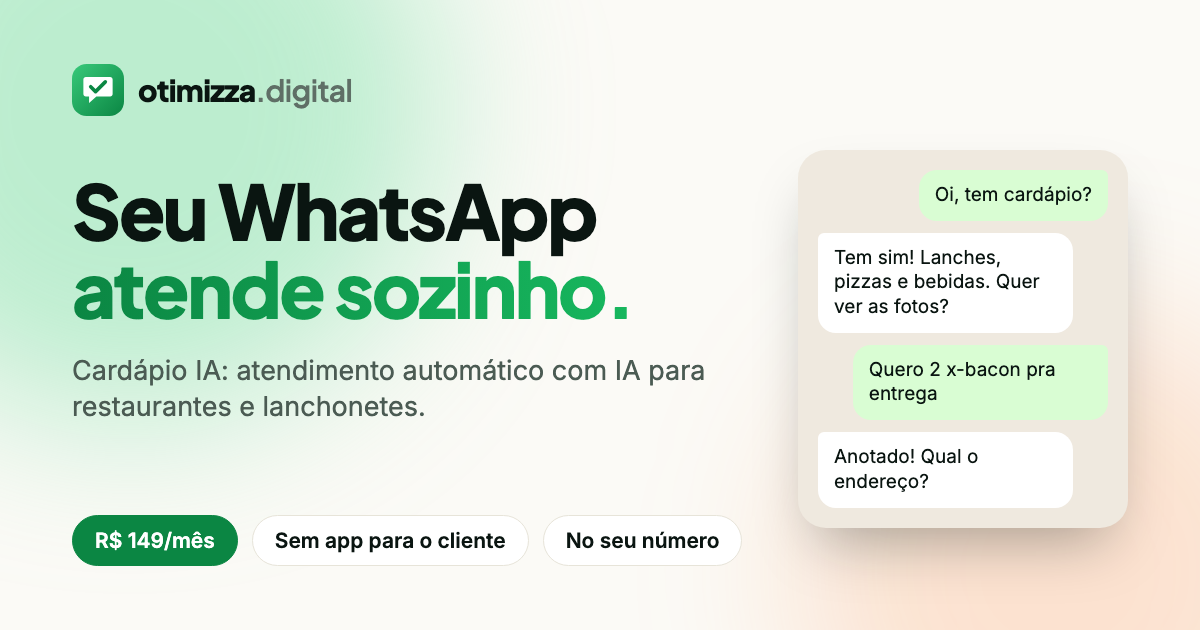
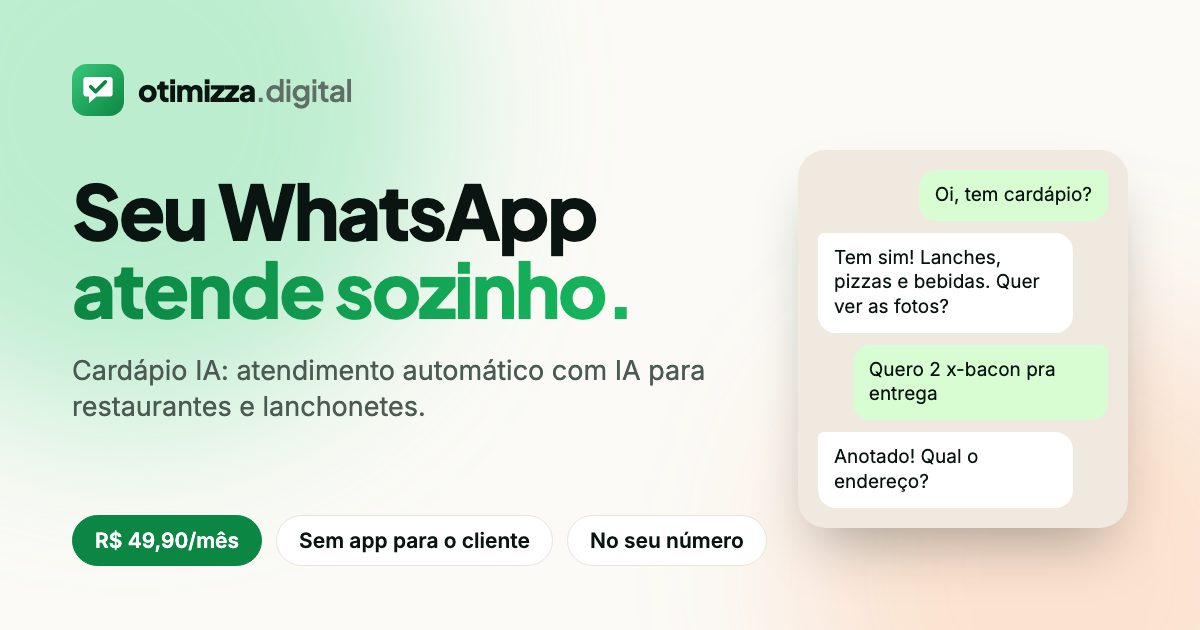
Preço do plano: R$ 49,90 por mês
Atualiza o preço em todo o site: plano, contador da home, calculadora,
barra do celular, páginas de segmento, FAQ, metadados, JSON-LD
(Offer 49.90), llms.txt e imagem de compartilhamento. O contador
animado passa a aceitar casas decimais.

Changed region(s): [[0.0925, 0.8143, 0.6167, 0.9048]]

diff --git a/index.html b/index.html
@@ -4,7 +4,7 @@
     <meta charset="UTF-8" />
     <meta name="viewport" content="width=device-width, initial-scale=1.0" />
     <title>Atendimento automático no WhatsApp para restaurantes | Cardápio IA</title>
-    <meta name="description" content="Atendente de WhatsApp com inteligência artificial para restaurantes, lanchonetes e pizzarias: mostra o cardápio, anota pedidos e confirma entrega. R$ 149/mês." />
+    <meta name="description" content="Atendente de WhatsApp com inteligência artificial para restaurantes, lanchonetes e pizzarias: mostra o cardápio, anota pedidos e confirma entrega. R$ 49,90/mês." />
     <meta name="robots" content="index,follow,max-image-preview:large,max-snippet:-1,max-video-preview:-1" />
     <link rel="canonical" href="https://otimizza.digital/" />
     <link rel="alternate" hreflang="pt-BR" href="https://otimizza.digital/" />
@@ -25,7 +25,7 @@
     <meta property="og:locale" content="pt_BR" />
     <meta property="og:site_name" content="Otimizza Digital" />
     <meta property="og:title" content="Seu WhatsApp atende sozinho. Até na hora do rush." />
-    <meta property="og:description" content="Cardápio IA: atendente de WhatsApp com inteligência artificial para restaurantes e lanchonetes. Anota pedidos, confirma entrega e pagamento e avisa a cozinha. R$ 149/mês." />
+    <meta property="og:description" content="Cardápio IA: atendente de WhatsApp com inteligência artificial para restaurantes e lanchonetes. Anota pedidos, confirma entrega e pagamento e avisa a cozinha. R$ 49,90/mês." />
     <meta property="og:url" content="https://otimizza.digital/" />
     <meta property="og:image" content="https://otimizza.digital/social-cover.png" />
     <meta property="og:image:type" content="image/png" />
@@ -34,10 +34,10 @@
     <meta property="og:image:alt" content="Cardápio IA, da Otimizza Digital: seu WhatsApp atende sozinho." />
     <meta name="twitter:card" content="summary_large_image" />
     <meta name="twitter:title" content="Seu WhatsApp atende sozinho. Até na hora do rush." />
-    <meta name="twitter:description" content="Atendente de WhatsApp com IA para restaurantes e lanchonetes. R$ 149/mês, sem app para o cliente." />
+    <meta name="twitter:description" content="Atendente de WhatsApp com IA para restaurantes e lanchonetes. R$ 49,90/mês, sem app para o cliente." />
     <meta name="twitter:image" content="https://otimizza.digital/social-cover.png" />
 
-    <script type="application/ld+json">{"@context": "https://schema.org", "@graph": [{"@type": "Organization", "@id": "https://otimizza.digital/#organization", "name": "Otimizza Digital", "url": "https://otimizza.digital/", "logo": {"@type": "ImageObject", "url": "https://otimizza.digital/icon-512.png", "width": 512, "height": 512}, "email": "tony.ananias@gmail.com", "telephone": "+5518981868701", "address": {"@type": "PostalAddress", "addressLocality": "Presidente Prudente", "addressRegion": "SP", "addressCountry": "BR"}, "areaServed": [{"@type": "City", "name": "Presidente Prudente"}, {"@type": "Country", "name": "Brasil"}], "founder": {"@type": "Person", "name": "Tony Ananias", "url": "https://tonyananias.com.br/sobre/"}, "contactPoint": {"@type": "ContactPoint", "contactType": "sales", "telephone": "+5518981868701", "availableLanguage": "Portuguese", "url": "https://wa.me/5518981868701"}, "sameAs": ["https://www.instagram.com/otimizza_digital/"]}, {"@type": "WebSite", "@id": "https://otimizza.digital/#website", "url": "https://otimizza.digital/", "name": "Otimizza Digital", "inLanguage": "pt-BR", "publisher": {"@id": "https://otimizza.digital/#organization"}}, {"@type": "WebPage", "@id": "https://otimizza.digital/#webpage", "url": "https://otimizza.digital/", "name": "Atendimento automático no WhatsApp para restaurantes | Cardápio IA", "inLanguage": "pt-BR", "isPartOf": {"@id": "https://otimizza.digital/#website"}, "about": {"@id": "https://otimizza.digital/#software"}, "primaryImageOfPage": {"@type": "ImageObject", "url": "https://otimizza.digital/social-cover.png"}, "dateModified": "2026-11-04"}, {"@type": "SoftwareApplication", "@id": "https://otimizza.digital/#software", "name": "Cardápio IA", "applicationCategory": "BusinessApplication", "applicationSubCategory": "Atendimento e pedidos pelo WhatsApp", "operatingSystem": "Web, WhatsApp", "url": "https://otimizza.digital/", "image": "https://otimizza.digital/social-cover.png", "description": "Atendente de WhatsApp com inteligência artificial para restaurantes, lanchonetes, pizzarias, marmitarias e açaiterias: mostra o cardápio com fotos, anota pedidos, confirma endereço e pagamento, entende áudio e avisa a cozinha.", "featureList": ["Atendimento 24h no número de WhatsApp do restaurante", "Cardápio com fotos enviado na conversa", "Anotação de pedidos com total e taxa de entrega", "Confirmação de endereço e forma de pagamento", "Entende mensagens de áudio", "Painel de pedidos em tempo real e modo cozinha", "Cardápio online por link", "Gestão de entregadores", "Integração com PDV via Open Delivery e webhook", "Resumo diário de vendas no WhatsApp"], "audience": {"@type": "BusinessAudience", "audienceType": "Restaurantes, lanchonetes, pizzarias, marmitarias e açaiterias"}, "offers": {"@type": "Offer", "price": "149.00", "priceCurrency": "BRL", "url": "https://otimizza.digital/#precos", "availability": "https://schema.org/InStock", "priceSpecification": {"@type": "UnitPriceSpecification", "price": "149.00", "priceCurrency": "BRL", "unitText": "mês", "referenceQuantity": {"@type": "QuantitativeValue", "value": 1, "unitCode": "MON"}}, "description": "Plano único por número de WhatsApp, pagamento mensal."}, "provider": {"@id": "https://otimizza.digital/#organization"}, "publisher": {"@id": "https://otimizza.digital/#organization"}}]}</script>
+    <script type="application/ld+json">{"@context": "https://schema.org", "@graph": [{"@type": "Organization", "@id": "https://otimizza.digital/#organization", "name": "Otimizza Digital", "url": "https://otimizza.digital/", "logo": {"@type": "ImageObject", "url": "https://otimizza.digital/icon-512.png", "width": 512, "height": 512}, "email": "tony.ananias@gmail.com", "telephone": "+5518981868701", "address": {"@type": "PostalAddress", "addressLocality": "Presidente Prudente", "addressRegion": "SP", "addressCountry": "BR"}, "areaServed": [{"@type": "City", "name": "Presidente Prudente"}, {"@type": "Country", "name": "Brasil"}], "founder": {"@type": "Person", "name": "Tony Ananias", "url": "https://tonyananias.com.br/sobre/"}, "contactPoint": {"@type": "ContactPoint", "contactType": "sales", "telephone": "+5518981868701", "availableLanguage": "Portuguese", "url": "https://wa.me/5518981868701"}, "sameAs": ["https://www.instagram.com/otimizza_digital/"]}, {"@type": "WebSite", "@id": "https://otimizza.digital/#website", "url": "https://otimizza.digital/", "name": "Otimizza Digital", "inLanguage": "pt-BR", "publisher": {"@id": "https://otimizza.digital/#organization"}}, {"@type": "WebPage", "@id": "https://otimizza.digital/#webpage", "url": "https://otimizza.digital/", "name": "Atendimento automático no WhatsApp para restaurantes | Cardápio IA", "inLanguage": "pt-BR", "isPartOf": {"@id": "https://otimizza.digital/#website"}, "about": {"@id": "https://otimizza.digital/#software"}, "primaryImageOfPage": {"@type": "ImageObject", "url": "https://otimizza.digital/social-cover.png"}, "dateModified": "2026-11-04"}, {"@type": "SoftwareApplication", "@id": "https://otimizza.digital/#software", "name": "Cardápio IA", "applicationCategory": "BusinessApplication", "applicationSubCategory": "Atendimento e pedidos pelo WhatsApp", "operatingSystem": "Web, WhatsApp", "url": "https://otimizza.digital/", "image": "https://otimizza.digital/social-cover.png", "description": "Atendente de WhatsApp com inteligência artificial para restaurantes, lanchonetes, pizzarias, marmitarias e açaiterias: mostra o cardápio com fotos, anota pedidos, confirma endereço e pagamento, entende áudio e avisa a cozinha.", "featureList": ["Atendimento 24h no número de WhatsApp do restaurante", "Cardápio com fotos enviado na conversa", "Anotação de pedidos com total e taxa de entrega", "Confirmação de endereço e forma de pagamento", "Entende mensagens de áudio", "Painel de pedidos em tempo real e modo cozinha", "Cardápio online por link", "Gestão de entregadores", "Integração com PDV via Open Delivery e webhook", "Resumo diário de vendas no WhatsApp"], "audience": {"@type": "BusinessAudience", "audienceType": "Restaurantes, lanchonetes, pizzarias, marmitarias e açaiterias"}, "offers": {"@type": "Offer", "price": "49.90", "priceCurrency": "BRL", "url": "https://otimizza.digital/#precos", "availability": "https://schema.org/InStock", "priceSpecification": {"@type": "UnitPriceSpecification", "price": "49.90", "priceCurrency": "BRL", "unitText": "mês", "referenceQuantity": {"@type": "QuantitativeValue", "value": 1, "unitCode": "MON"}}, "description": "Plano único por número de WhatsApp, pagamento mensal."}, "provider": {"@id": "https://otimizza.digital/#organization"}, "publisher": {"@id": "https://otimizza.digital/#organization"}}]}</script>
   </head>
   <body>
     <div id="root"></div>

diff --git a/src/lib/segments.ts b/src/lib/segments.ts
@@ -46,7 +46,7 @@ export const SEGMENTS: Segment[] = [
     label: "Pizzaria",
     metaTitle: "Atendimento automático no WhatsApp para pizzaria | Cardápio IA",
     metaDescription:
-      "Robô de WhatsApp com IA para pizzaria: anota sabores, meio a meio, tamanho e borda, confirma endereço e pagamento e manda o pedido para a cozinha. R$ 149/mês.",
+      "Robô de WhatsApp com IA para pizzaria: anota sabores, meio a meio, tamanho e borda, confirma endereço e pagamento e manda o pedido para a cozinha. R$ 49,90/mês.",
     ogTitle: "Sua pizzaria atendendo todo mundo no WhatsApp, até na sexta à noite.",
     eyebrow: "Cardápio IA para pizzarias",
     h1: "Atendimento automático no WhatsApp para",
@@ -94,7 +94,7 @@ export const SEGMENTS: Segment[] = [
     label: "Hamburgueria",
     metaTitle: "Atendimento automático no WhatsApp para hamburgueria e lanchonete | Cardápio IA",
     metaDescription:
-      "Robô de WhatsApp com IA para hamburgueria e lanchonete: entende “xbacon”, anota adicionais e observações como “sem cebola” e manda o pedido para a chapa. R$ 149/mês.",
+      "Robô de WhatsApp com IA para hamburgueria e lanchonete: entende “xbacon”, anota adicionais e observações como “sem cebola” e manda o pedido para a chapa. R$ 49,90/mês.",
     ogTitle: "Sua hamburgueria atendendo no WhatsApp enquanto a chapa trabalha.",
     eyebrow: "Cardápio IA para hamburguerias e lanchonetes",
     h1: "Atendimento automático no WhatsApp para",
@@ -142,7 +142,7 @@ export const SEGMENTS: Segment[] = [
     label: "Marmitaria",
     metaTitle: "Atendimento automático no WhatsApp para marmitaria | Cardápio IA",
     metaDescription:
-      "Robô de WhatsApp com IA para marmitaria: informa o cardápio do dia, anota tamanho e prato, respeita o horário de corte e organiza as entregas do almoço. R$ 149/mês.",
+      "Robô de WhatsApp com IA para marmitaria: informa o cardápio do dia, anota tamanho e prato, respeita o horário de corte e organiza as entregas do almoço. R$ 49,90/mês.",
     ogTitle: "Sua marmitaria fechando os pedidos do almoço sem ficar presa no celular.",
     eyebrow: "Cardápio IA para marmitarias",
     h1: "Atendimento automático no WhatsApp para",
@@ -190,7 +190,7 @@ export const SEGMENTS: Segment[] = [
     label: "Açaiteria",
     metaTitle: "Atendimento automático no WhatsApp para açaiteria | Cardápio IA",
     metaDescription:
-      "Robô de WhatsApp com IA para açaiteria: anota tamanho, acompanhamentos e adicionais, avisa quando um item acabou e manda o pedido para o balcão. R$ 149/mês.",
+      "Robô de WhatsApp com IA para açaiteria: anota tamanho, acompanhamentos e adicionais, avisa quando um item acabou e manda o pedido para o balcão. R$ 49,90/mês.",
     ogTitle: "Sua açaiteria montando cada copo certo, direto do WhatsApp.",
     eyebrow: "Cardápio IA para açaiterias",
     h1: "Atendimento automático no WhatsApp para",

diff --git a/src/components/ui/Counter.tsx b/src/components/ui/Counter.tsx
@@ -6,11 +6,13 @@ type CounterProps = {
   prefix?: string;
   suffix?: string;
   duration?: number;
+  /** casas decimais (ex.: 2 para centavos) */
+  decimals?: number;
   className?: string;
 };
 
 /** Counts up from 0 when it scrolls into view. Respects reduced motion. */
-export function Counter({ to, prefix = "", suffix = "", duration = 1.6, className }: CounterProps) {
+export function Counter({ to, prefix = "", suffix = "", duration = 1.6, decimals = 0, className }: CounterProps) {
   const ref = useRef<HTMLSpanElement>(null);
   const inView = useInView(ref, { once: true, margin: "-40px" });
   const reduce = useReducedMotion();
@@ -19,7 +21,8 @@ export function Counter({ to, prefix = "", suffix = "", duration = 1.6, classNam
     const el = ref.current;
     if (!el) return;
     const write = (v: number) => {
-      el.textContent = `${prefix}${Math.round(v).toLocaleString("pt-BR")}${suffix}`;
+      const n = decimals ? v : Math.round(v);
+      el.textContent = `${prefix}${n.toLocaleString("pt-BR", { minimumFractionDigits: decimals, maximumFractionDigits: decimals })}${suffix}`;
     };
     if (reduce) {
       write(to);
@@ -28,11 +31,13 @@ export function Counter({ to, prefix = "", suffix = "", duration = 1.6, classNam
     if (!inView) return;
     const controls = animate(0, to, { duration, ease: [0.16, 1, 0.3, 1], onUpdate: write });
     return () => controls.stop();
-  }, [inView, reduce, to, prefix, suffix, duration]);
+  }, [inView, reduce, to, prefix, suffix, duration, decimals]);
 
   return (
     <span ref={ref} className={className}>
-      {prefix}0{suffix}
+      {prefix}
+      {(0).toLocaleString("pt-BR", { minimumFractionDigits: decimals, maximumFractionDigits: decimals })}
+      {suffix}
     </span>
   );
 }

diff --git a/src/components/sections/Pricing.tsx b/src/components/sections/Pricing.tsx
@@ -163,7 +163,7 @@ function Calculator_() {
               <strong className="text-white">
                 {ordersToPay} {ordersToPay === 1 ? "pedido" : "pedidos"} por mês
               </strong>{" "}
-              já pagam os {brl(BRAND.price)} do plano.
+              já pagam os {brl(BRAND.price, 2)} do plano.
             </p>
           </div>
         </div>
@@ -213,9 +213,9 @@ export function Pricing() {
                   <span className="text-2xl font-bold text-muted sm:text-3xl">R$</span>
                   <span className="relative inline-block text-7xl font-extrabold leading-[0.85] tracking-tighter tabular-nums sm:text-8xl">
                     {/* invisible real value reserves width (and is what screen readers read) */}
-                    <span className="invisible">{BRAND.price}</span>
+                    <span className="invisible">{BRAND.price.toLocaleString("pt-BR", { minimumFractionDigits: 2 })}</span>
                     <span aria-hidden="true" className="absolute inset-0 text-left">
-                      <Counter to={BRAND.price} duration={1.4} />
+                      <Counter to={BRAND.price} duration={1.4} decimals={2} />
                     </span>
                   </span>
                   <span className="pb-1 text-lg font-semibold text-muted">/mês</span>

diff --git a/src/lib/content.ts b/src/lib/content.ts
@@ -5,7 +5,7 @@ export const BRAND = {
   product: "Cardápio IA",
   city: "Presidente Prudente, SP",
   phoneLabel: "(18) 98186-8701",
-  price: 149,
+  price: 49.9,
 } as const;
 
 const WA_MAIN = "5518981868701";
@@ -76,7 +76,7 @@ export const FAQ_ITEMS = [
   },
   {
     q: "Tem fidelidade ou taxa de instalação?",
-    a: "Essas condições são combinadas na conversa de contratação pelo WhatsApp. O valor do plano é R$ 149 por mês.",
+    a: "Essas condições são combinadas na conversa de contratação pelo WhatsApp. O valor do plano é R$ 49,90 por mês.",
   },
   {
     q: "Atende fora de Presidente Prudente?",
@@ -87,3 +87,6 @@ export const FAQ_ITEMS = [
     a: "É um atendente com inteligência artificial, mas não é aquele robô de menu com “digite 1”. O cliente escreve ou manda áudio do jeito dele e a IA entende, mostra o cardápio digital com fotos e anota o pedido. Quando precisa, passa a conversa para uma pessoa da equipe.",
   },
 ] as const;
+
+/** Preço formatado com centavos, ex.: "R$ 49,90". */
+export const PRICE_LABEL = brl(BRAND.price, 2);

diff --git a/src/components/pages/SegmentPage.tsx b/src/components/pages/SegmentPage.tsx
@@ -64,7 +64,7 @@ function SegmentHero({ s }: { s: Segment }) {
             </Button>
           </div>
           <ul className="mt-7 flex flex-col items-center gap-x-6 gap-y-2 text-sm font-medium text-muted sm:flex-row sm:flex-wrap sm:justify-center lg:justify-start">
-            {["Sem app para o cliente", "No número que você já usa", `${brl(BRAND.price)}/mês, plano único`].map((t) => (
+            {["Sem app para o cliente", "No número que você já usa", `${brl(BRAND.price, 2)}/mês, plano único`].map((t) => (
               <li key={t} className="inline-flex items-center gap-2">
                 <span className="grid size-5 place-items-center rounded-full bg-brand-100 text-brand-700">
                   <Check className="size-3" strokeWidth={3} aria-hidden="true" />

diff --git a/src/components/sections/Hero.tsx b/src/components/sections/Hero.tsx
@@ -12,7 +12,7 @@ import { BarChart3, Bell, CheckCheck, ChefHat, Check } from "lucide-react";
 import { Button } from "@/components/ui/Button";
 import { Container } from "@/components/ui/Section";
 import { WhatsAppIcon } from "@/components/ui/Icons";
-import { LINKS, EASE } from "@/lib/content";
+import { LINKS, EASE, PRICE_LABEL } from "@/lib/content";
 
 /* ------------------------------------------------------------------ */
 /* Conversation script (mirrors the real Cardápio IA demo)            */
@@ -375,7 +375,7 @@ const rise: Variants = {
 const TRUST = [
   "Sem app para o cliente baixar",
   "No número que você já usa",
-  "R$ 149/mês, plano único",
+  `${PRICE_LABEL}/mês, plano único`,
 ];
 
 export function Hero() {

diff --git a/src/components/sections/MobileCTA.tsx b/src/components/sections/MobileCTA.tsx
@@ -42,7 +42,7 @@ export function MobileCTA() {
           <div className="glass flex items-center justify-between gap-3 rounded-full py-2 pl-5 pr-2 shadow-[0_20px_50px_-12px_rgb(10_21_17/0.45)]">
             <p className="leading-tight">
               <span className="block font-display text-sm font-extrabold text-ink">Cardápio IA</span>
-              <span className="text-xs text-muted">{brl(BRAND.price)}/mês · plano único</span>
+              <span className="text-xs text-muted">{brl(BRAND.price, 2)}/mês · plano único</span>
             </p>
             <Button href={LINKS.start} icon={<WhatsAppIcon className="size-[18px]" />} className="h-11">
               Falar agora

diff --git a/src/components/sections/SocialProof.tsx b/src/components/sections/SocialProof.tsx
@@ -37,7 +37,7 @@ const STATS = [
   { node: <Counter to={24} suffix="h" />, label: "de atendimento no seu WhatsApp, inclusive no rush" },
   { node: <Counter to={0} />, label: "apps para o seu cliente instalar" },
   { node: <Counter to={3} />, label: "passos do cardápio ao primeiro pedido" },
-  { node: <Counter to={149} prefix="R$ " />, label: "por mês, plano único por número de WhatsApp" },
+  { node: <Counter to={49.9} prefix="R$ " decimals={2} />, label: "por mês, plano único por número de WhatsApp" },
 ];
 
 const INTEGRATIONS: { label: string; icon: ReactNode }[] = [
